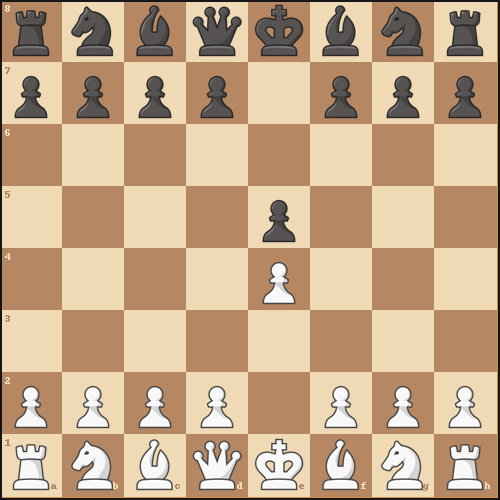
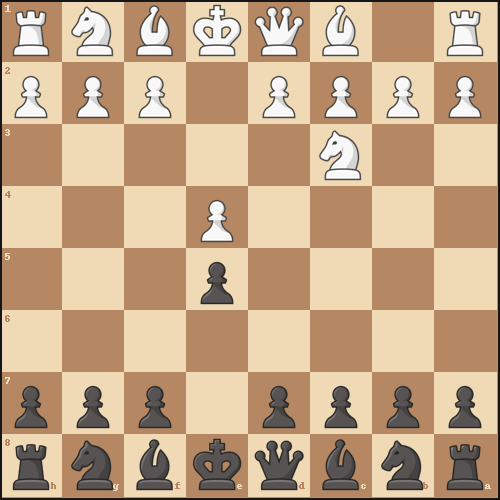
🚀 Update chessboard image, fen and readme

diff --git a/README.md b/README.md
@@ -12,5 +12,5 @@ Currently studying Software Design at the University of Applied Sciences in <a h
 ---
 
 <p align="center">
-  <img src="https://raw.githubusercontent.com/thieleju/thieleju/main/images/chessboard.png" \>
+  <img src="https://raw.githubusercontent.com/thieleju/thieleju/main/images/chessboard.png?v=$TIMESTAMP" \>
 </p>
